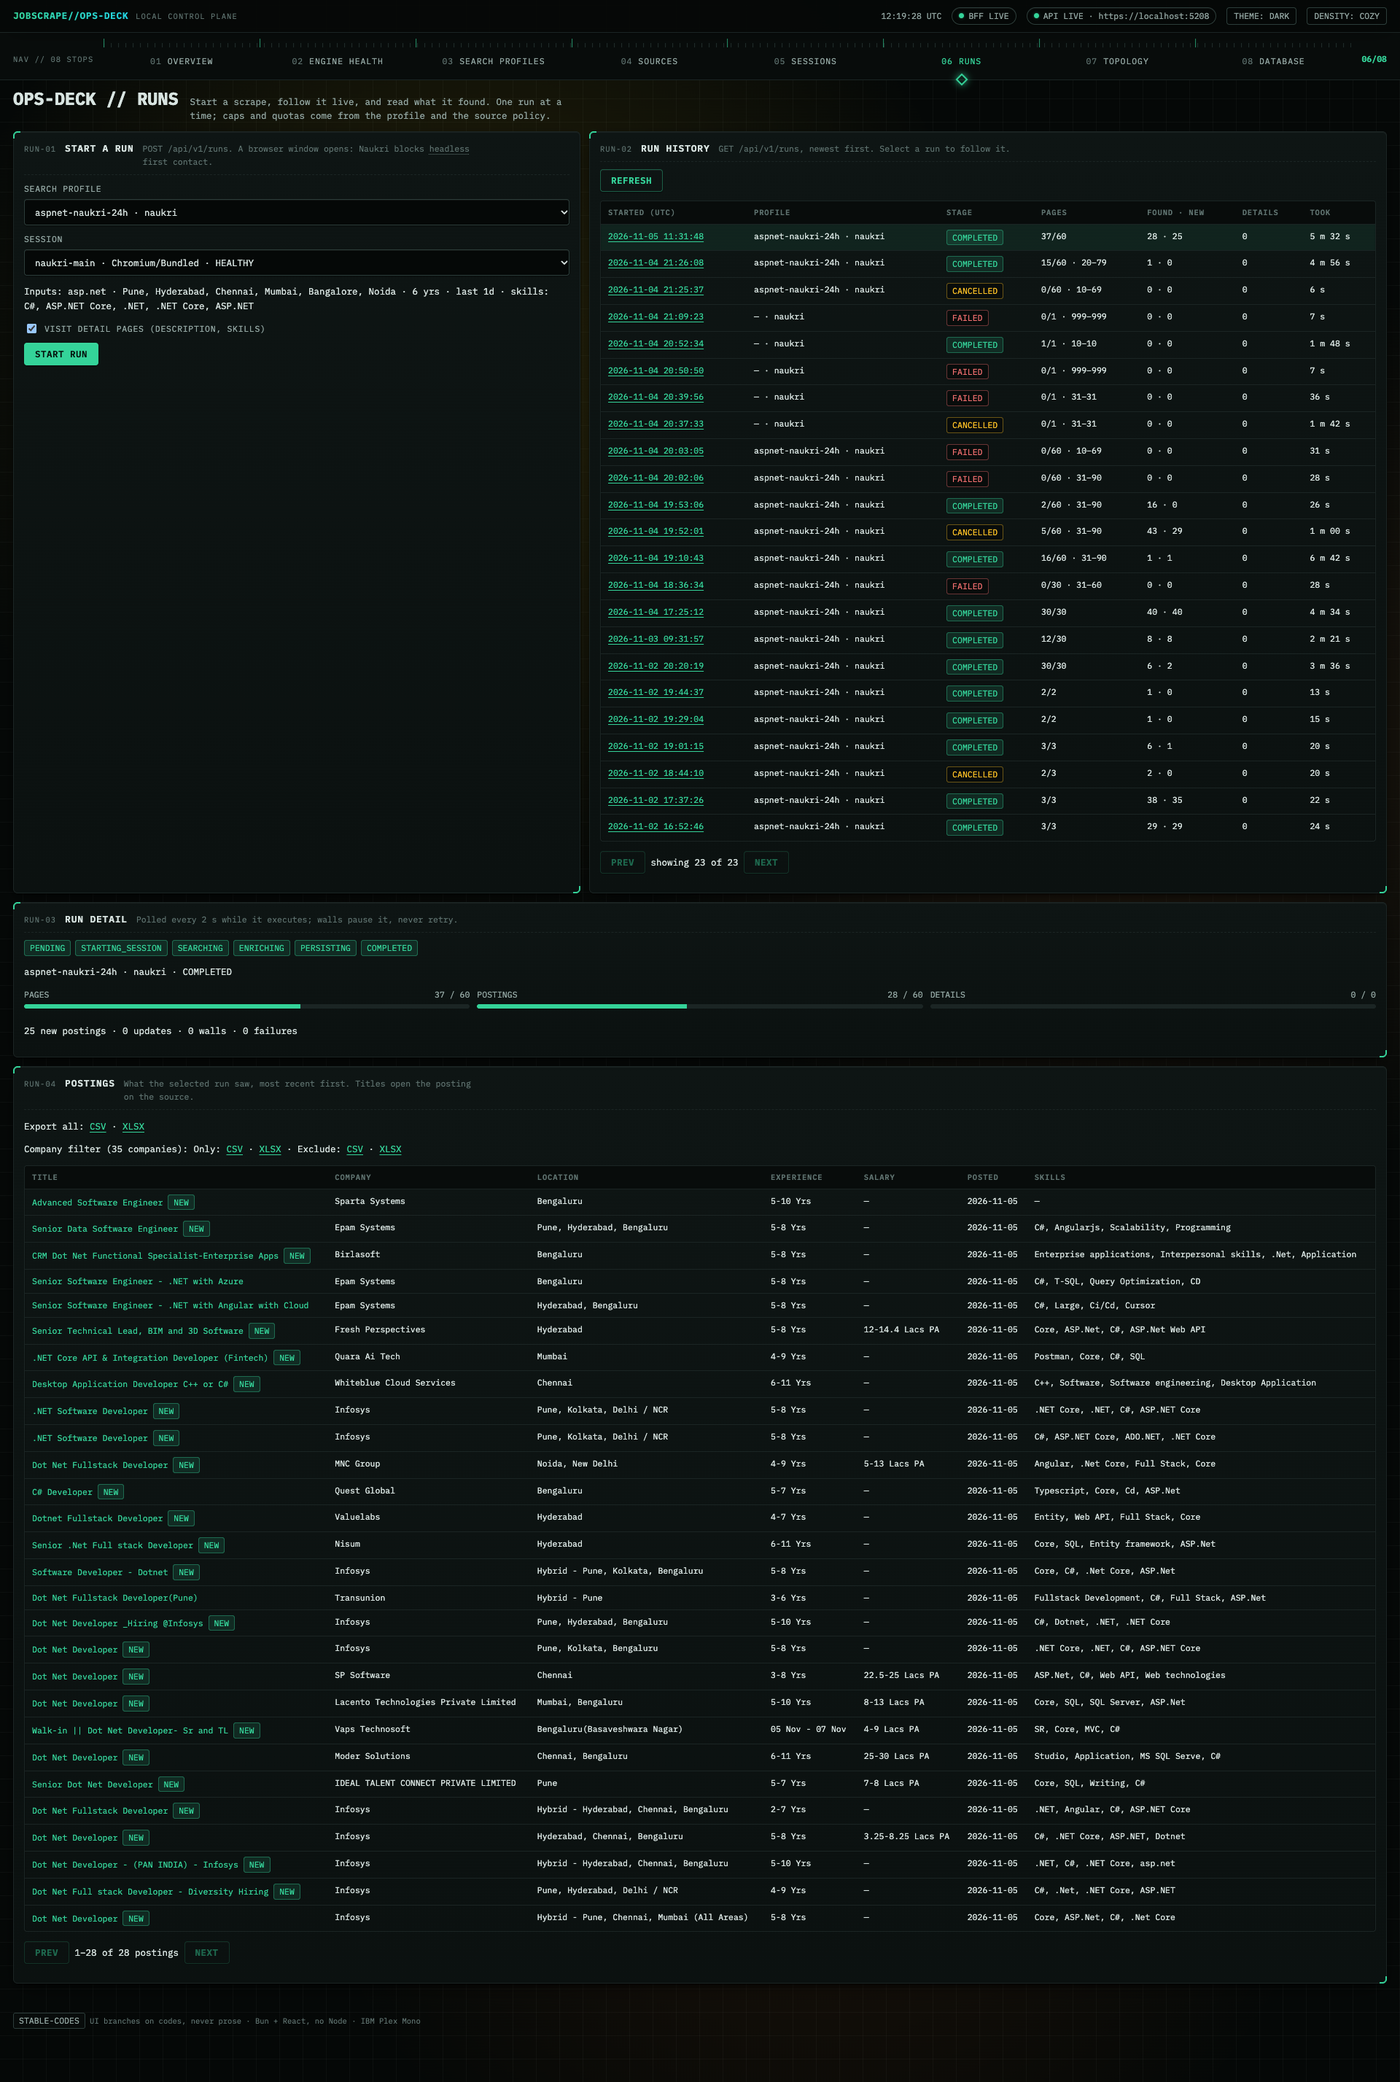
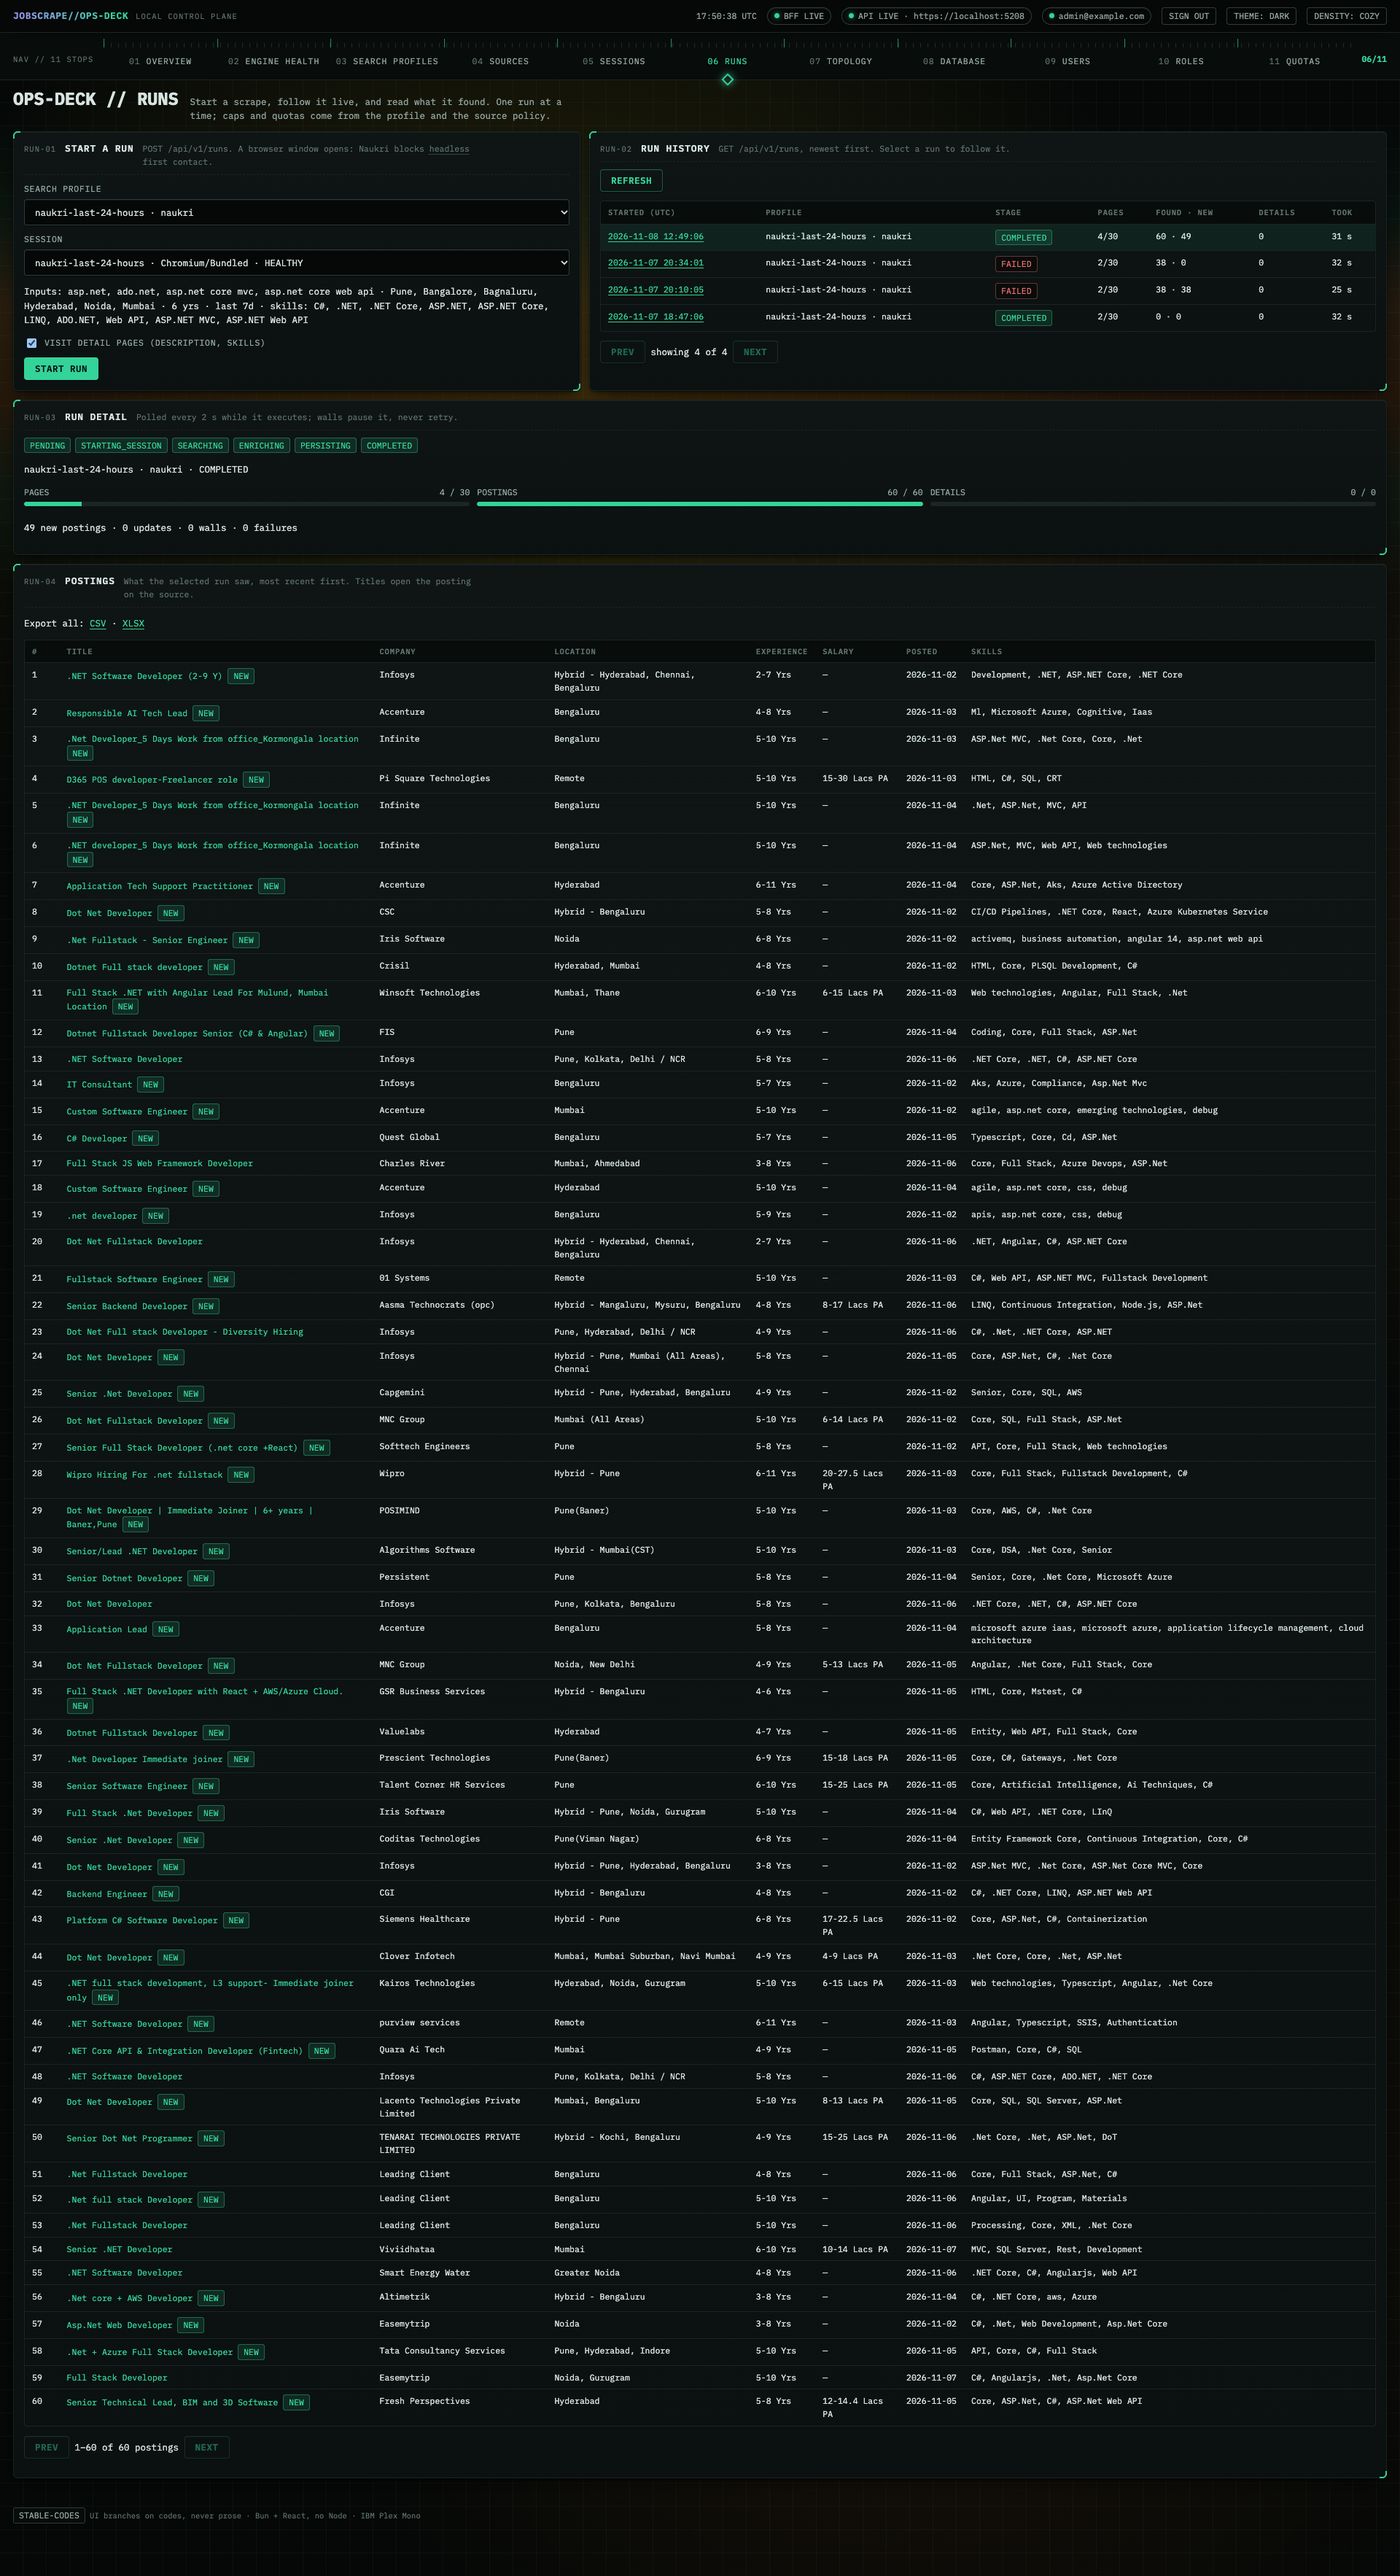
docs(screenshots): recapture ops-deck gallery with sign-in and routes 09-11
Capture script signs in via ADMIN_EMAIL/ADMIN_PASSWORD and polls for
the deck marker before walking all 11 routes. Gallery gains Users,
Roles, and Quotas sections; sign-in defaults documented in the
web-cockpit doc.

diff --git a/tools/screenshots/capture.ts b/tools/screenshots/capture.ts
@@ -17,6 +17,8 @@
 const BFF = process.env["BFF_URL"] ?? "https://127.0.0.1:3000";
 const OUT = process.env["SHOT_OUT"] ?? "docs/screenshots";
 const CDP = process.env["CDP_PORT"] ?? "9222";
+const ADMIN_EMAIL = process.env["ADMIN_EMAIL"] ?? "admin@example.com";
+const ADMIN_PASSWORD = process.env["ADMIN_PASSWORD"] ?? "AslamAslam@123";
 const routes = [
   ["01-overview", "overview"],
   ["02-health", "health"],
@@ -26,6 +28,9 @@ const routes = [
   ["06-runs", "runs"],
   ["07-topology", "topology"],
   ["08-database", "database"],
+  ["09-users", "users"],
+  ["10-roles", "roles"],
+  ["11-quotas", "quotas"],
 ];
 
 const sleep = (ms: number) => new Promise((r) => setTimeout(r, ms));
@@ -101,6 +106,26 @@ async function shot(path: string) {
 
 await send("Page.enable");
 await send("Runtime.enable");
+
+// Sign in once: every deck route sits behind the login gate. Fills the
+// React-controlled form via the native value setter so onInput fires,
+// submits, then polls for the deck theme toggle (absent on the login page).
+await send("Page.navigate", { url: `${BFF}/#/overview` });
+await sleep(2500);
+await evalJs(
+  `(() => { const email = ${JSON.stringify(ADMIN_EMAIL)}; const pass = ${JSON.stringify(ADMIN_PASSWORD)}; const set = (el, v) => { const d = Object.getOwnPropertyDescriptor(el.__proto__, 'value') ?? Object.getOwnPropertyDescriptor(HTMLInputElement.prototype, 'value'); d?.set?.call(el, v); el.dispatchEvent(new Event('input', { bubbles: true })); el.dispatchEvent(new Event('change', { bubbles: true })); }; const e = document.querySelector('input[name="email"]'); const p = document.querySelector('input[name="password"]'); if (e) set(e, email); if (p) set(p, pass); return !!(e && p); })()`,
+);
+await evalJs(
+  `document.querySelector('form[aria-label="Sign in"] button[type="submit"]')?.click()`,
+);
+for (let i = 0; i < 40; i++) {
+  const deck = await evalJs(
+    `document.querySelector('[title="Toggle color theme"]') ? "READY" : "WAITING"`,
+  );
+  if (String(deck) === "READY") break;
+  if (i === 39) throw new Error("deck never rendered after sign-in");
+  await sleep(500);
+}
 
 try {
   for (const [slug, route] of routes) {

diff --git a/README.md b/README.md
@@ -83,6 +83,33 @@ Browse every user table in the SQLite store. Live schema, paged rows, CRUD, live
 <img src="docs/screenshots/08-database-dark.png" width="49%" alt="Database page in dark theme" />
 </div>
 
+### 09 Users
+
+Signed-in account, password change, plus admin user list, create, and role assignment.
+
+<div style="display:flex;gap:12px;">
+<img src="docs/screenshots/09-users-light.png" width="49%" alt="Users page in light theme" />
+<img src="docs/screenshots/09-users-dark.png" width="49%" alt="Users page in dark theme" />
+</div>
+
+### 10 Roles
+
+Role catalog with per-role permission grants across the permission keys.
+
+<div style="display:flex;gap:12px;">
+<img src="docs/screenshots/10-roles-light.png" width="49%" alt="Roles page in light theme" />
+<img src="docs/screenshots/10-roles-dark.png" width="49%" alt="Roles page in dark theme" />
+</div>
+
+### 11 Quotas
+
+Usage quota definitions with per-user limits and fixed windows.
+
+<div style="display:flex;gap:12px;">
+<img src="docs/screenshots/11-quotas-light.png" width="49%" alt="Quotas page in light theme" />
+<img src="docs/screenshots/11-quotas-dark.png" width="49%" alt="Quotas page in dark theme" />
+</div>
+
 ## Verified stack
 
 Status means In use (referenced by a project today) or Planned (design-matrix version, no package reference yet).

diff --git a/docs/12-web-cockpit.md b/docs/12-web-cockpit.md
@@ -1001,6 +1001,13 @@ async function sse(req: Request): Promise<Response> {
 - **BFF→API:** `JOBLENS_API_TOKEN` is server-only, never inlined, never logged.
 - **Remote access:** disabled by default. LAN access requires explicit `JOBLENS_ALLOW_REMOTE=1`, TLS, and a trusted network (Tailscale/SSH tunnel preferred).
 
+### 13.4.1 Signing in (local dev)
+
+- **Default admin:** seeded from appsettings `JobScrape:AdminSeed` (`admin@example.com`). The file default is development-only.
+- **First run:** a seeded account completes `setup-password` once, trading the seeded secret for an operator password. Until then sign-in stays locked.
+- **After setup:** sign in at `#/overview` with email + password. The BFF holds the bearer server-side; the deck keeps an `HttpOnly` session cookie and never logs the secret.
+- **Production:** CI/CD replaces the seed values from the secret store at deploy time. Never ship the development defaults.
+
 ### 13.5 Security headers
 
 ```text
